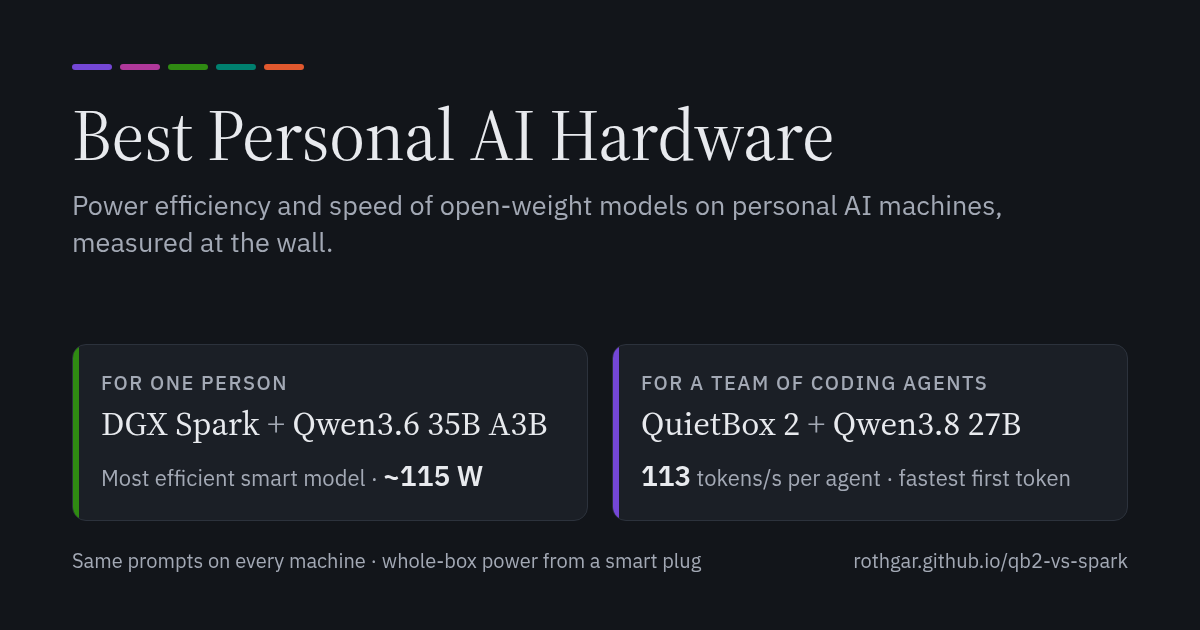
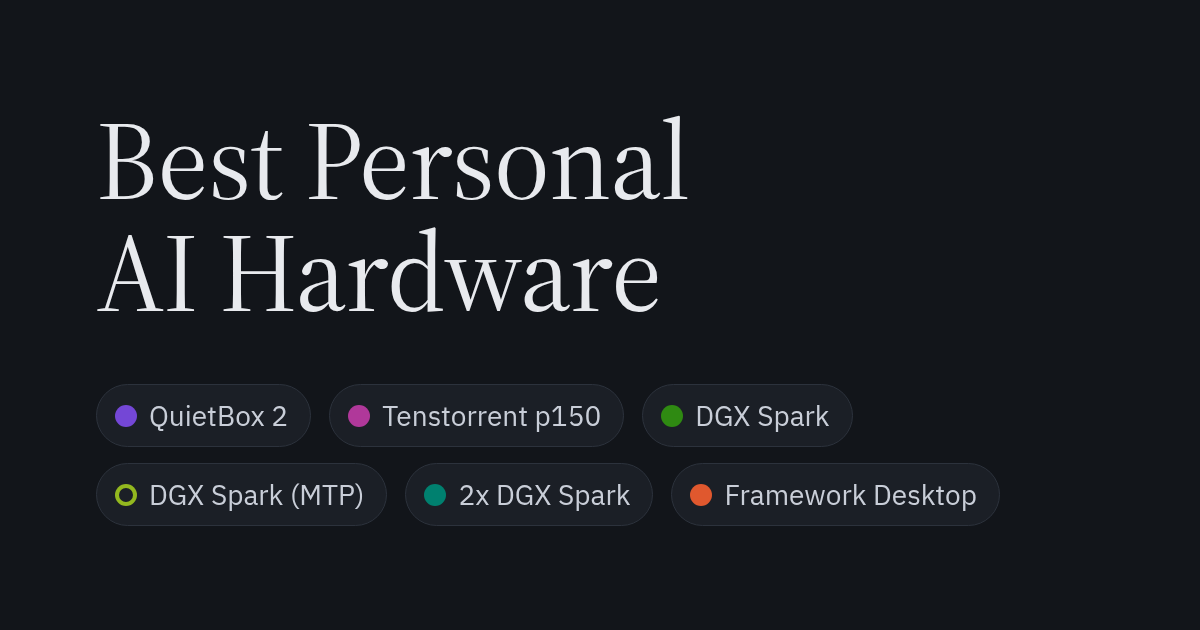
Site: simpler sharing card, the title and the systems' colors

diff --git a/site/og.html b/site/og.html
@@ -1,47 +1,32 @@
 <!doctype html>
-<!-- The social sharing card (docs/og.png, 1200x630). Render with tools/make-og.sh after changing the picks. -->
+<!-- The social sharing card (docs/og.png, 1200x630): the page title and the systems' legend colors.
+     Render with tools/make-og.sh after changing it. Colors match SYS_HEX in shell.html. -->
 <html lang="en">
 <head>
 <meta charset="utf-8">
 <link rel="stylesheet" href="https://fonts.googleapis.com/css2?family=IBM+Plex+Sans:wght@400;500;600&family=Source+Serif+4:opsz,wght@8..60,400;8..60,600&display=swap">
 <style>
-  :root { --bg: #12151a; --panel: #1b1f26; --fg: #e8eaee; --muted: #a3a9b5; --line: #2c323c;
-          --nvidia: #2f8a12; --tt: #7447d6; --amd: #e0582e; --tt2: #b0389a; --nv2: #00806f; }
   * { box-sizing: border-box; }
   html, body { margin: 0; width: 1200px; height: 630px; overflow: hidden; }
-  body { background: var(--bg); color: var(--fg); font-family: "IBM Plex Sans", system-ui, sans-serif;
-         padding: 64px 72px 56px; display: flex; flex-direction: column; }
-  .bar { display: flex; gap: 8px; margin-bottom: 28px; }
-  .bar i { width: 40px; height: 6px; border-radius: 3px; display: block; }
-  h1 { font-family: "Source Serif 4", Georgia, serif; font-weight: 400; font-size: 72px; line-height: 1.02; margin: 0; letter-spacing: -0.5px; }
-  .sub { color: var(--muted); font-size: 27px; margin: 16px 0 0; line-height: 1.35; max-width: 980px; }
-  .picks { display: grid; grid-template-columns: 1fr 1fr; gap: 24px; margin-top: auto; }
-  .pick { background: var(--panel); border: 1px solid var(--line); border-radius: 14px; padding: 24px 28px 26px; position: relative; overflow: hidden; }
-  .pick::before { content: ""; position: absolute; left: 0; top: 0; bottom: 0; width: 6px; background: var(--c); }
-  .who { color: var(--muted); font-size: 20px; text-transform: uppercase; letter-spacing: 1.5px; font-weight: 500; }
-  .what { font-family: "Source Serif 4", Georgia, serif; font-size: 34px; line-height: 1.15; margin-top: 8px; }
-  .what span { color: var(--muted); }
-  .num { margin-top: 14px; font-size: 22px; color: var(--muted); }
-  .num b { color: var(--fg); font-weight: 600; font-size: 28px; }
-  .foot { display: flex; justify-content: space-between; color: var(--muted); font-size: 20px; margin-top: 26px; }
+  body { background: #12151a; color: #e8eaee; font-family: "IBM Plex Sans", system-ui, sans-serif;
+         padding: 0 96px; display: flex; flex-direction: column; justify-content: center; gap: 56px; }
+  h1 { font-family: "Source Serif 4", Georgia, serif; font-weight: 400; font-size: 112px; line-height: 1.0; margin: 0; letter-spacing: -1px; }
+  .chips { display: flex; flex-wrap: wrap; gap: 16px 18px; max-width: 1010px; }
+  .chip { display: inline-flex; align-items: center; gap: 12px; padding: 12px 22px 12px 18px; border-radius: 999px;
+          background: #1b1f26; border: 1px solid #2c323c; font-size: 28px; color: #c9ced8; }
+  .chip i { width: 22px; height: 22px; border-radius: 50%; background: var(--c); display: block; }
+  .chip.hollow i { background: transparent; box-shadow: inset 0 0 0 4px var(--c); }
 </style>
 </head>
 <body>
-  <div class="bar"><i style="background: var(--tt)"></i><i style="background: var(--tt2)"></i><i style="background: var(--nvidia)"></i><i style="background: var(--nv2)"></i><i style="background: var(--amd)"></i></div>
-  <h1>Best Personal AI Hardware</h1>
-  <p class="sub">Power efficiency and speed of open-weight models on personal AI machines, measured at the wall.</p>
-  <div class="picks">
-    <div class="pick" style="--c: var(--nvidia)">
-      <div class="who">For one person</div>
-      <div class="what">DGX Spark <span>+</span> Qwen3.6 35B A3B</div>
-      <div class="num">Most efficient smart model · <b>~115 W</b></div>
-    </div>
-    <div class="pick" style="--c: var(--tt)">
-      <div class="who">For a team of coding agents</div>
-      <div class="what">QuietBox 2 <span>+</span> Qwen3.8 27B</div>
-      <div class="num"><b>113</b> tokens/s per agent · fastest first token</div>
-    </div>
+  <h1>Best Personal<br>AI Hardware</h1>
+  <div class="chips">
+    <span class="chip" style="--c: #7447d6"><i></i>QuietBox 2</span>
+    <span class="chip" style="--c: #b0389a"><i></i>Tenstorrent p150</span>
+    <span class="chip" style="--c: #2f8a12"><i></i>DGX Spark</span>
+    <span class="chip hollow" style="--c: #93b81f"><i></i>DGX Spark (MTP)</span>
+    <span class="chip" style="--c: #00806f"><i></i>2x DGX Spark</span>
+    <span class="chip" style="--c: #e0582e"><i></i>Framework Desktop</span>
   </div>
-  <div class="foot"><span>Same prompts on every machine · whole-box power from a smart plug</span><span>rothgar.github.io/qb2-vs-spark</span></div>
 </body>
 </html>

diff --git a/docs/images.html b/docs/images.html
@@ -15,12 +15,12 @@
 <meta property="og:image:type" content="image/png">
 <meta property="og:image:width" content="1200">
 <meta property="og:image:height" content="630">
-<meta property="og:image:alt" content="Best Personal AI Hardware: for one person, a DGX Spark with Qwen3.6 35B A3B; for a team of coding agents, a QuietBox 2 with Qwen3.8 27B.">
+<meta property="og:image:alt" content="Best Personal AI Hardware, with the colors of the systems compared: QuietBox 2, Tenstorrent p150, DGX Spark, 2x DGX Spark and Framework Desktop.">
 <meta name="twitter:card" content="summary_large_image">
 <meta name="twitter:title" content="Image and video generation">
 <meta name="twitter:description" content="FLUX.1-schnell images and Wan2.2 video on a Tenstorrent QuietBox 2, one NVIDIA DGX Spark and two Sparks: seconds per image or clip, on the same prompts and settings.">
 <meta name="twitter:image" content="https://rothgar.github.io/qb2-vs-spark/og.png">
-<meta name="twitter:image:alt" content="Best Personal AI Hardware: for one person, a DGX Spark with Qwen3.6 35B A3B; for a team of coding agents, a QuietBox 2 with Qwen3.8 27B.">
+<meta name="twitter:image:alt" content="Best Personal AI Hardware, with the colors of the systems compared: QuietBox 2, Tenstorrent p150, DGX Spark, 2x DGX Spark and Framework Desktop.">
 <link rel="preconnect" href="https://fonts.googleapis.com">
 <link rel="preconnect" href="https://fonts.gstatic.com" crossorigin>
 <link rel="stylesheet" href="https://fonts.googleapis.com/css2?family=IBM+Plex+Sans:wght@400;500;600&family=Source+Serif+4:opsz,wght@8..60,400;8..60,600&display=swap">

diff --git a/docs/talos.html b/docs/talos.html
@@ -15,12 +15,12 @@
 <meta property="og:image:type" content="image/png">
 <meta property="og:image:width" content="1200">
 <meta property="og:image:height" content="630">
-<meta property="og:image:alt" content="Best Personal AI Hardware: for one person, a DGX Spark with Qwen3.6 35B A3B; for a team of coding agents, a QuietBox 2 with Qwen3.8 27B.">
+<meta property="og:image:alt" content="Best Personal AI Hardware, with the colors of the systems compared: QuietBox 2, Tenstorrent p150, DGX Spark, 2x DGX Spark and Framework Desktop.">
 <meta name="twitter:card" content="summary_large_image">
 <meta name="twitter:title" content="Talos Linux vs Ubuntu">
 <meta name="twitter:description" content="The same QuietBox 2 and DGX Spark on Talos Linux and on Ubuntu: the change in throughput, per-user speed and time to first token for each model and test.">
 <meta name="twitter:image" content="https://rothgar.github.io/qb2-vs-spark/og.png">
-<meta name="twitter:image:alt" content="Best Personal AI Hardware: for one person, a DGX Spark with Qwen3.6 35B A3B; for a team of coding agents, a QuietBox 2 with Qwen3.8 27B.">
+<meta name="twitter:image:alt" content="Best Personal AI Hardware, with the colors of the systems compared: QuietBox 2, Tenstorrent p150, DGX Spark, 2x DGX Spark and Framework Desktop.">
 <link rel="preconnect" href="https://fonts.googleapis.com">
 <link rel="preconnect" href="https://fonts.gstatic.com" crossorigin>
 <link rel="stylesheet" href="https://fonts.googleapis.com/css2?family=IBM+Plex+Sans:wght@400;500;600&family=Source+Serif+4:opsz,wght@8..60,400;8..60,600&display=swap">

diff --git a/docs/index.html b/docs/index.html
@@ -15,12 +15,12 @@
 <meta property="og:image:type" content="image/png">
 <meta property="og:image:width" content="1200">
 <meta property="og:image:height" content="630">
-<meta property="og:image:alt" content="Best Personal AI Hardware: for one person, a DGX Spark with Qwen3.6 35B A3B; for a team of coding agents, a QuietBox 2 with Qwen3.8 27B.">
+<meta property="og:image:alt" content="Best Personal AI Hardware, with the colors of the systems compared: QuietBox 2, Tenstorrent p150, DGX Spark, 2x DGX Spark and Framework Desktop.">
 <meta name="twitter:card" content="summary_large_image">
 <meta name="twitter:title" content="Best Personal AI Hardware">
 <meta name="twitter:description" content="Power efficiency and speed of open-weight models on personal AI hardware, measured at the wall, with running cost and published quality scores.">
 <meta name="twitter:image" content="https://rothgar.github.io/qb2-vs-spark/og.png">
-<meta name="twitter:image:alt" content="Best Personal AI Hardware: for one person, a DGX Spark with Qwen3.6 35B A3B; for a team of coding agents, a QuietBox 2 with Qwen3.8 27B.">
+<meta name="twitter:image:alt" content="Best Personal AI Hardware, with the colors of the systems compared: QuietBox 2, Tenstorrent p150, DGX Spark, 2x DGX Spark and Framework Desktop.">
 <link rel="preconnect" href="https://fonts.googleapis.com">
 <link rel="preconnect" href="https://fonts.gstatic.com" crossorigin>
 <link rel="stylesheet" href="https://fonts.googleapis.com/css2?family=IBM+Plex+Sans:wght@400;500;600&family=Source+Serif+4:opsz,wght@8..60,400;8..60,600&display=swap">

diff --git a/site/shell.html b/site/shell.html
@@ -15,12 +15,12 @@
 <meta property="og:image:type" content="image/png">
 <meta property="og:image:width" content="1200">
 <meta property="og:image:height" content="630">
-<meta property="og:image:alt" content="Best Personal AI Hardware: for one person, a DGX Spark with Qwen3.6 35B A3B; for a team of coding agents, a QuietBox 2 with Qwen3.8 27B.">
+<meta property="og:image:alt" content="Best Personal AI Hardware, with the colors of the systems compared: QuietBox 2, Tenstorrent p150, DGX Spark, 2x DGX Spark and Framework Desktop.">
 <meta name="twitter:card" content="summary_large_image">
 <meta name="twitter:title" content="__TITLE__">
 <meta name="twitter:description" content="__DESC__">
 <meta name="twitter:image" content="__SITE__og.png">
-<meta name="twitter:image:alt" content="Best Personal AI Hardware: for one person, a DGX Spark with Qwen3.6 35B A3B; for a team of coding agents, a QuietBox 2 with Qwen3.8 27B.">
+<meta name="twitter:image:alt" content="Best Personal AI Hardware, with the colors of the systems compared: QuietBox 2, Tenstorrent p150, DGX Spark, 2x DGX Spark and Framework Desktop.">
 <link rel="preconnect" href="https://fonts.googleapis.com">
 <link rel="preconnect" href="https://fonts.gstatic.com" crossorigin>
 <link rel="stylesheet" href="https://fonts.googleapis.com/css2?family=IBM+Plex+Sans:wght@400;500;600&family=Source+Serif+4:opsz,wght@8..60,400;8..60,600&display=swap">
